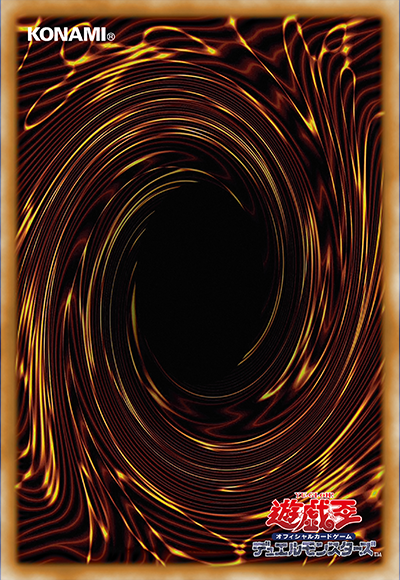
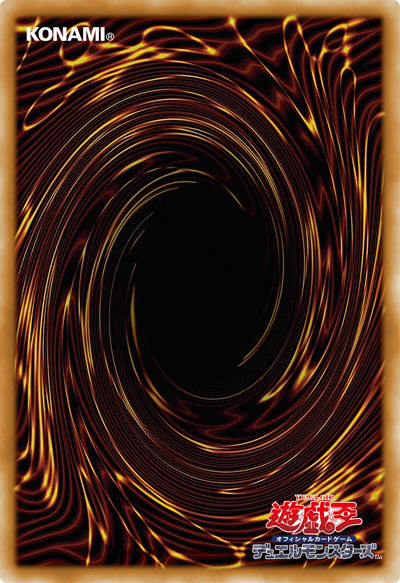
fix

diff --git a/src/components/card.vue b/src/components/card.vue
@@ -7,7 +7,8 @@
         <button id = "search_btn" :style="{ 'background-color': open.cdb != '' ? 'cornflowerblue' : 'gray' }" @click = "card.search()">搜索</button>
     </div>
         <div id = "card_pic">
-            <img :src = "card.pic"/>
+            <pic v-if = "card.pic == '/cover.png'"/>
+            <img :src = "card.pic" v-if = "card.pic != '/cover.png'"/>
             <div id = "card_link">
                 <img v-for = "(i, v) in [0, 1, 2, 3, 5, 6, 7, 8]" :src = "lists.link_pics[i]" :style = "{ 'grid-row-start': [1, 3, 5][Math.floor(i / 3)], 'grid-row-end': [1, 3, 5][Math.floor(i / 3)] + 1, 'grid-column-start': (i % 3) + 1, 'grid-column-end': (i % 3) + 2 }" v-if = "vif.show.link.chk && vif.is_type.link" @mouseover = "card.get_link.src.get(i)" @mouseleave = "card.get_link.src.reset(i)" @click = "card.get_link.link(i)"/>
             </div>
@@ -112,7 +113,7 @@
     import emitter from '@/utils/emitter';
 
     import download from './download.vue'
-    import get_pic from './pic.vue'
+    import pic from './pic.vue'
 
     let lists = reactive({
         ot: [[0x0, '许可 N/A']],
@@ -714,9 +715,9 @@
         justify-items: center;
     }
 
-    #card_pic img {
+    #card_pic img, .pic {
         max-width: 17.5vw;
-        height: 100%;
+        height: 110%;
         width: auto;
         display: block;
     }

diff --git a/src/components/pic.vue b/src/components/pic.vue
@@ -1,9 +1,16 @@
 <template>
-    <button class = "get_pic" @click = "exportImage()">保存图片</button>
+    <img class = "pic" :src = "url_blob" />
 </template>
-<script setup name = 'get_pic' lang = 'js'>
+<script setup name = 'pic' lang = 'js'>
+    import { ref, reactive, watch, onMounted, computed } from 'vue';
     import axios from 'axios';
     import { FieldCenterCard, RushDuelCard, YugiohBackCard, YugiohCard, YugiohSeries2Card } from 'yugioh-card';
+
+    onMounted(() => {
+        exportImage();
+    })
+
+    let url_blob = ref(null);
 
     async function exportImage() {
         let cardLeaf = new YugiohCard({
@@ -50,6 +57,7 @@
         let formData = new FormData();
         await cardLeaf.leafer.export('jpg', true).then(result => { 
             formData.append('file', result.data, 'blue-eyes.jpg');
+            url_blob.value = URL.createObjectURL(result.data);
         })
         await axios.post('http://127.0.0.1:8000/api/get_pics', formData)
     }

diff --git a/src/App.vue b/src/App.vue
@@ -248,6 +248,9 @@
                     emitter.emit('to_lpage_cdb_opened', cdb);
                 } as (cdb: any[]) => void
             }
+        },
+        pic : {
+            
         }
     }
 

diff --git a/file_manager.py b/file_manager.py
@@ -10,7 +10,7 @@ def process_pic(pic_path, buffer = './dist/buffer', pics_folder = 'pics'):
         pic_name = pic_path[pic_path.rfind('/') + 1 : pic_path.rfind('.')]
         img = Image.open(pic_path)
         img = img.convert('RGB')
-        img = img.resize((400, 580), Image.Resampling.LANCZOS)
+        img = img.resize((400, 583), Image.Resampling.LANCZOS)
         img.save(f'{buffer}/{pics_folder}/{pic_name}.jpg')
         return f'{buffer}/{pics_folder}/{pic_name}.jpg'
     except:
